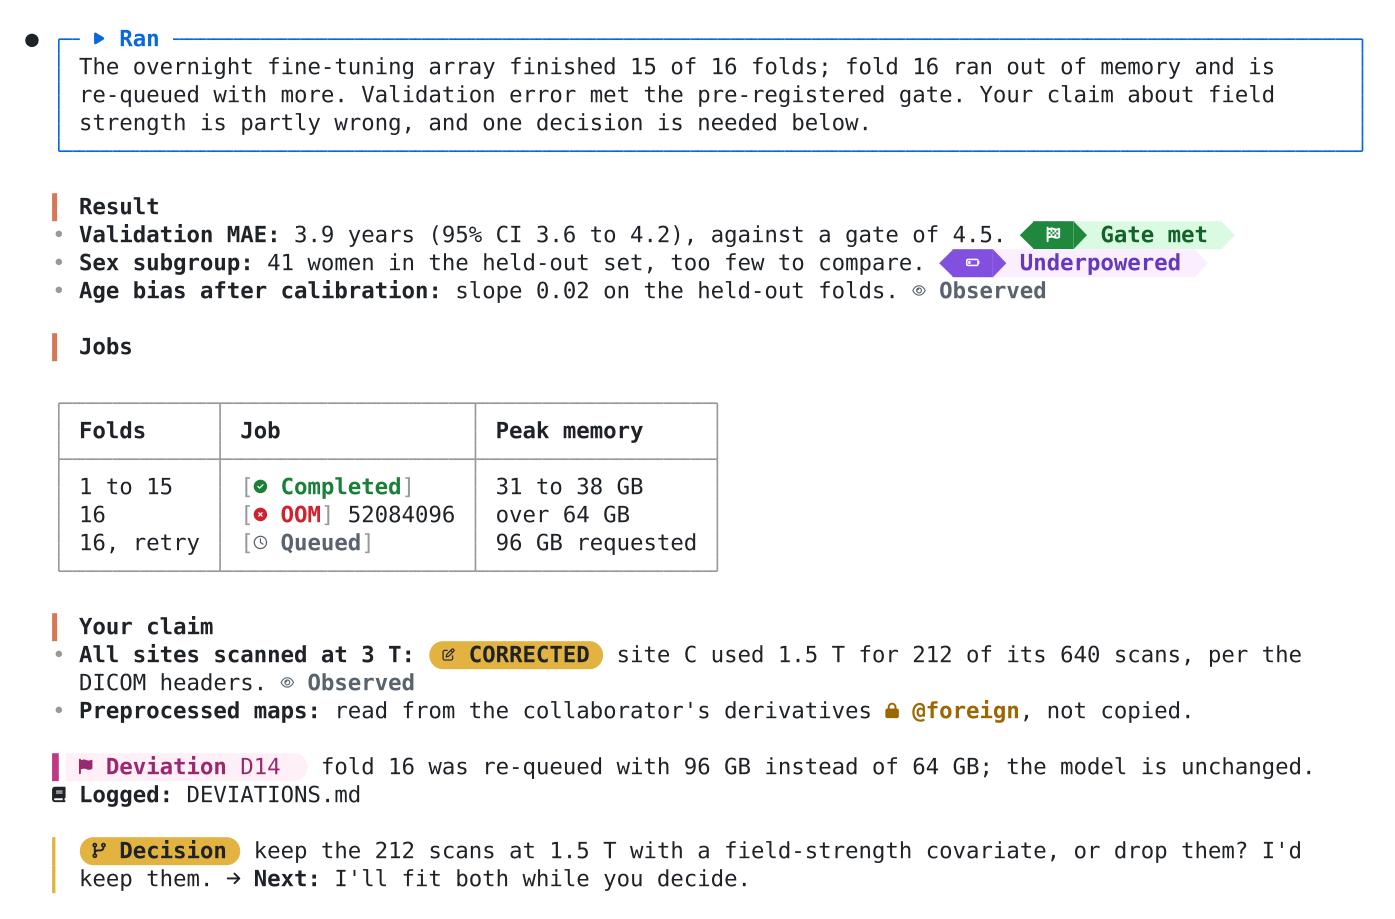
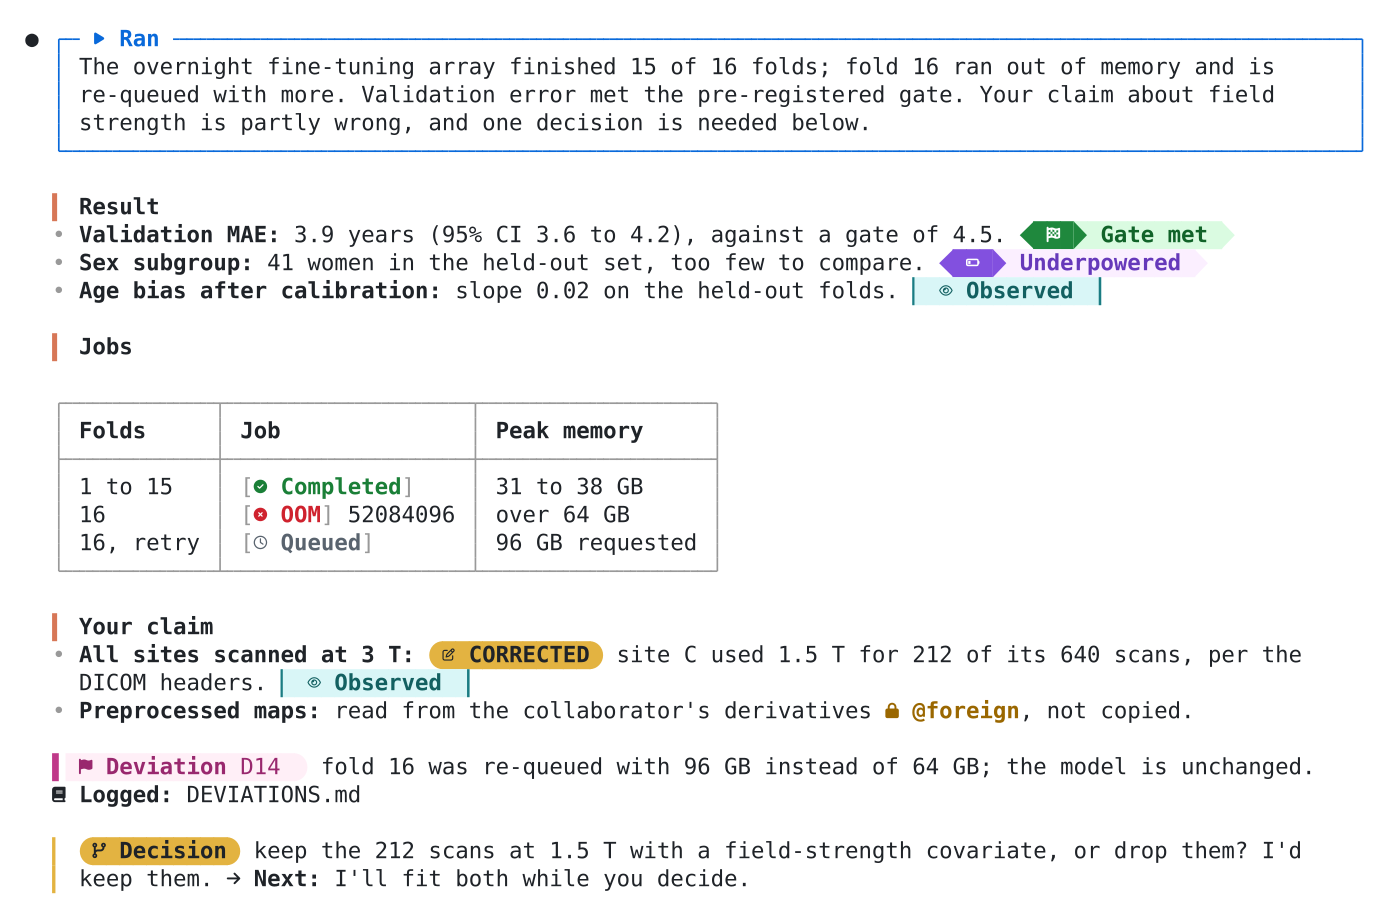
Evidence tags as colored chips with thin edges
Observed, Inferred, Unverified and Cited are drawn as filled chips with
thin colored edges (cyan, blue, amber, violet), distinct from the
rounded status chips. Observed is cyan, not green, so it does not read
as an outcome. README screenshots updated.

Changed region(s): [[0.1849, 0.7008, 0.3391, 0.7617], [0.6473, 0.2742, 0.8014, 0.3351]]

diff --git a/hooks/emphasis.ts b/hooks/emphasis.ts
@@ -34,7 +34,7 @@ export type Settings = { icons: IconSet; boldColor: string; palette?: 'dark' | '
 /**
  * Pill families. Each family has its own shape, so a glance tells evidence from a gate from a job.
  * Unicode mode (any font) / nerd-font mode:
- *   evidence  ◉ Observed           colored word with a mark, no background
+ *   evidence  ▏● Observed ▕        filled chip with thin colored edges
  *   verdict   ✓ CONFIRMED          solid stamp, capitals (nerd: rounded)
  *   gate      ▲│Gate met           two-tone badge: solid icon cell, soft label (nerd: arrow ends)
  *   status    ▐✓ Done▌             soft chip (nerd: rounded)
@@ -119,10 +119,10 @@ export const WORDS: Record<string, Word> = {
   Changed: { family: 'mode', hue: 'green', glyph: '✎', meaning: 'I edited files, data or jobs' },
   Ran: { family: 'mode', hue: 'blue', glyph: '▶', meaning: 'I ran an analysis, test or job' },
   // Evidence: where a claim comes from.
-  Observed: { family: 'evidence', hue: 'grey', glyph: '●', meaning: 'checked on disk or in a run' },
-  Inferred: { family: 'evidence', hue: 'grey', glyph: '◐', meaning: 'reasoned from other evidence' },
+  Observed: { family: 'evidence', hue: 'cyan', glyph: '●', meaning: 'checked on disk or in a run' },
+  Inferred: { family: 'evidence', hue: 'blue', glyph: '◐', meaning: 'reasoned from other evidence' },
   Unverified: { family: 'evidence', hue: 'amber', glyph: '○', meaning: 'not checked' },
-  Cited: { family: 'evidence', hue: 'grey', glyph: '§', meaning: 'taken from a paper or doc, not checked here' },
+  Cited: { family: 'evidence', hue: 'violet', glyph: '§', meaning: 'taken from a paper or doc, not checked here' },
   // Verdict on a claim the user made.
   Confirmed: { family: 'verdict', hue: 'green', glyph: '✓', meaning: 'the claim holds' },
   Corrected: { family: 'verdict', hue: 'amber', glyph: '±', meaning: 'the claim is partly wrong' },
@@ -233,8 +233,14 @@ export function pillRuns(text: string, set: Settings): Run[] {
   const icon = set.icons === 'none' ? '' : nerd ? (NERD_ICONS[word] ?? w.glyph) : w.glyph
   const pad = (runs: Run[], style: Partial<Run>): Run[] => [{ ...style, s: ' ' }, ...runs, { ...style, s: ' ' }]
   switch (w.family) {
-    case 'evidence':
-      return label(icon, word, detail, { color: h.text })
+    case 'evidence': {
+      // A filled chip with thin colored edges, so evidence reads apart from status chips (which have
+      // half-block or rounded ends). With theme colors the chip is unfilled: edges and text only.
+      const themed = set.palette === 'theme'
+      const fill = themed ? { color: h.text } : { bg: h.wash, color: h.onWash }
+      const edge = themed ? { color: h.text } : { bg: h.wash, color: h.solid }
+      return [{ ...edge, s: '▏' }, ...pad(label(icon, word, detail, fill), fill), { ...edge, s: '▕' }]
+    }
     case 'verdict': {
       const fill = { bg: h.solid, color: h.onSolid }
       if (nerd) return [{ s: ROUND[0]!, color: h.solid }, ...label(icon, word, detail, fill, true), { s: ROUND[1]!, color: h.solid }]

diff --git a/README.md b/README.md
@@ -45,7 +45,7 @@ Each family of markers has its own shape, so you can tell what kind of marker it
 
 | Family | Words | Shape |
 |---|---|---|
-| Evidence | Observed, Inferred, Unverified, Cited | quiet annotation; the mark shows the grade (● observed, ◐ inferred, ○ unverified); only Unverified is colored |
+| Evidence | Observed, Inferred, Unverified, Cited | filled chip with thin colored edges; the mark shows the grade (● observed, ◐ inferred, ○ unverified, § cited) |
 | Verdict on a claim you made | Confirmed, Corrected, Contradicted | solid stamp in capitals |
 | Gates (pre-registered pass/stop thresholds) | Gate met, Gate missed, Fold, Shelve, Exploratory, Underpowered | two-tone badge: a solid icon cell, then a soft label |
 | Work status | Done, Passed, Fixed, Recommended, Failed, Blocked, Partial, Skipped, At risk, Handed over | soft chip |
